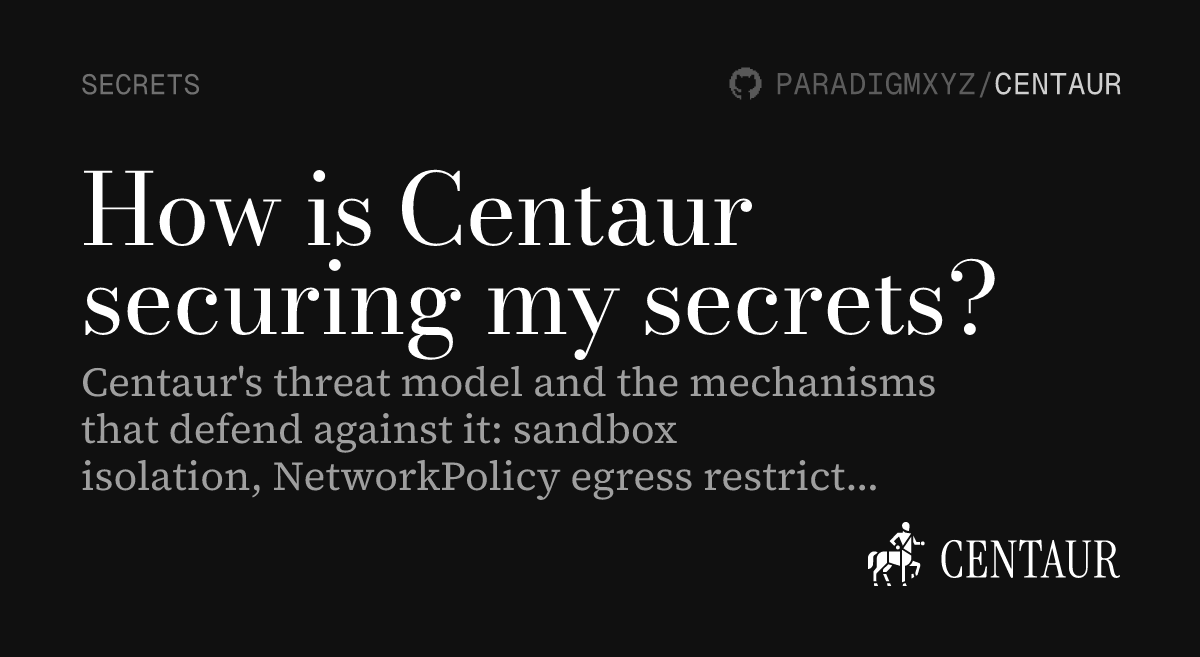
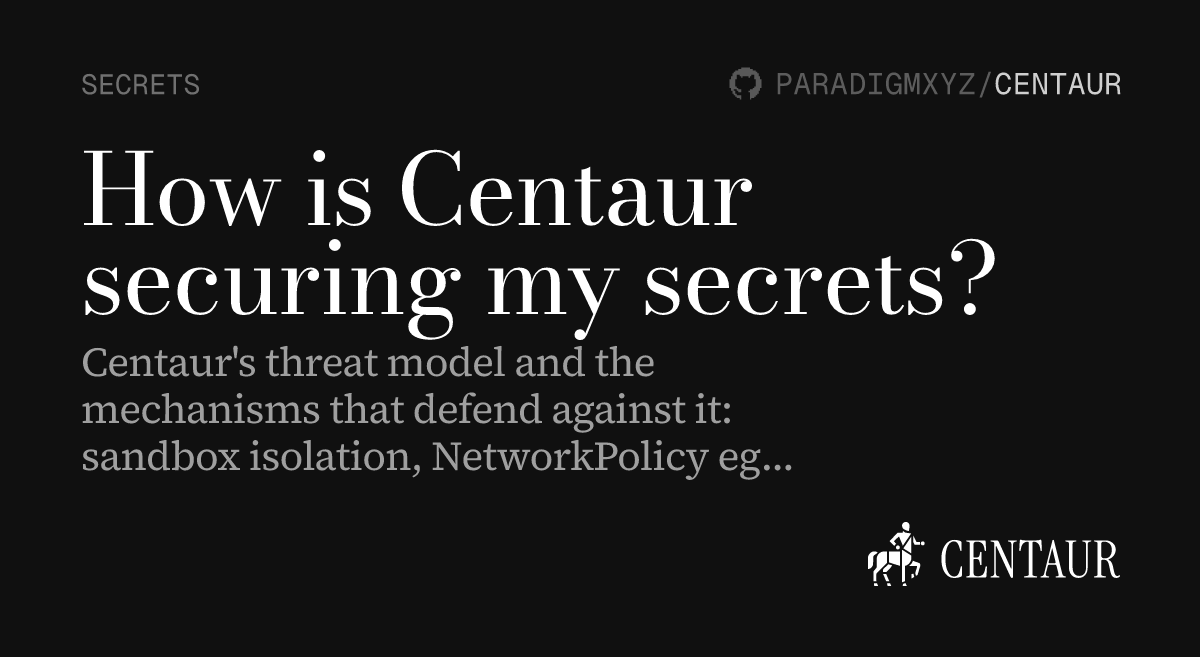
docs(og): strip title emojis, tighten desc wrap, -2% letter-spacing
- Strip leading emoji (e.g. 🚧, 🔐) from titles before rendering — none
  of the loaded Google fonts carry emoji glyphs, so they used to render
  as tofu boxes
- Wrap description text at 36 chars instead of 41 so the right edge
  clears the centaur silhouette (~x=868) with a 20px+ padding margin
- Description letter-spacing 0em -> -0.02em to match the title's tone
- DESC_BASELINE_MAX_Y 490 -> 470 so a 2-line title + 3-line description
  lifts further up the card and doesn't crowd the centaur logo

Changed region(s): [[0.0617, 0.2131, 0.8325, 0.761], [0.0617, 0.2131, 0.1233, 0.274]]

diff --git a/docs/scripts/build-og.ts b/docs/scripts/build-og.ts
@@ -239,7 +239,7 @@ const DEFAULT_TITLE_BASELINE_Y = 270
 const TITLE_LINE_H = 89
 const DESC_LINE_H = 47
 const TITLE_TO_DESC_BASELINE_GAP = 62
-const DESC_BASELINE_MAX_Y = 490
+const DESC_BASELINE_MAX_Y = 470
 
 function computeStackY(nTitle: number, nDesc: number) {
   const titleStackHeight = Math.max(0, nTitle - 1) * TITLE_LINE_H
@@ -275,8 +275,21 @@ function buildSvg(
 ): string {
   let svg = TEMPLATE_SVG
 
-  const titleLines = balanceLines(title, 99)
-  const descLines = description ? wrapText(description, 41, 3) : []
+  // Strip leading emojis (and any surrounding whitespace) from the title.
+  // The Bodoni/Source-Serif/Geist-Mono fonts loaded for resvg don't carry
+  // emoji glyphs, so a leading "🔐 Secrets" renders as a tofu box.
+  const cleanTitle = title
+    .replace(
+      /^[\p{Extended_Pictographic}\p{Emoji_Component}\uFE0F\u200D\s]+/u,
+      '',
+    )
+    .trim()
+
+  const titleLines = balanceLines(cleanTitle, 99)
+  // Wrap descriptions tighter so they don't crash into the centaur
+  // silhouette in the bottom-right (~x=868). 36 chars * ~20px ≈ 720px
+  // of text width leaves a comfortable 20px+ gap from the logo edge.
+  const descLines = description ? wrapText(description, 36, 3) : []
   const { eyebrowBaseline, titleBaselines, descBaselines } = computeStackY(
     titleLines.length,
     descLines.length,
@@ -320,7 +333,7 @@ function buildSvg(
       .join('')
     svg = svg.replace(
       /<text id="Description[^>]*>[\s\S]*?<\/text>/,
-      `<text opacity="0.6" fill="white" xml:space="preserve" font-family="Source Serif 4" font-weight="400" font-size="41" letter-spacing="0em">${descTspans}</text>`,
+      `<text opacity="0.6" fill="white" xml:space="preserve" font-family="Source Serif 4" font-weight="400" font-size="41" letter-spacing="-0.02em">${descTspans}</text>`,
     )
   } else {
     svg = svg.replace(/<text id="Description[^>]*>[\s\S]*?<\/text>/, '')
